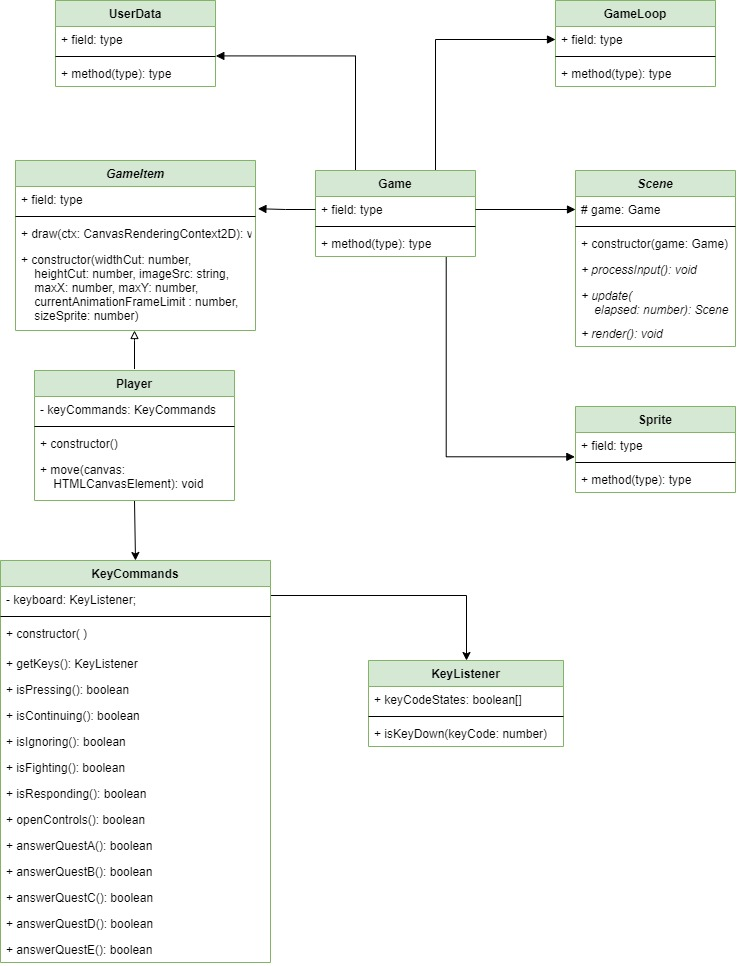
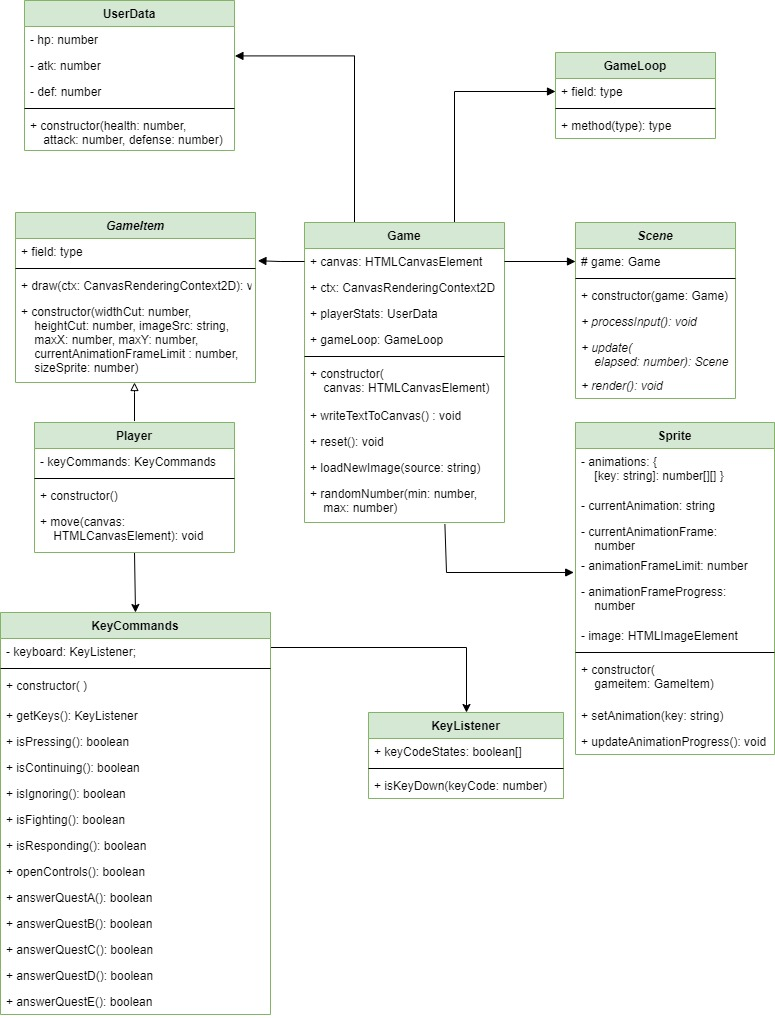
Updated UML

Changed region(s): [[0.0, 0.0, 0.6554, 1.0], [0.4681, 0.0, 1.0, 0.7764]]

diff --git a/src/UserData.ts b/src/UserData.ts
@@ -1,6 +1,4 @@
 export default class UserData {
-  private level: number;
-
   // Variables for the player stats:
   private hp: number;
 
@@ -16,13 +14,6 @@ export default class UserData {
    * @param defense the character's defense value
    */
   public constructor(health: number, attack: number, defense: number) {
-    /**
-     * TODO
-     * If we want to increase the game difficulty we can use 'level' to increase the monster's
-     * stats in Monster.ts file
-     */
-    this.level = 1;
-
     // Initializing the variables
     this.hp = health;
     this.atk = attack;
